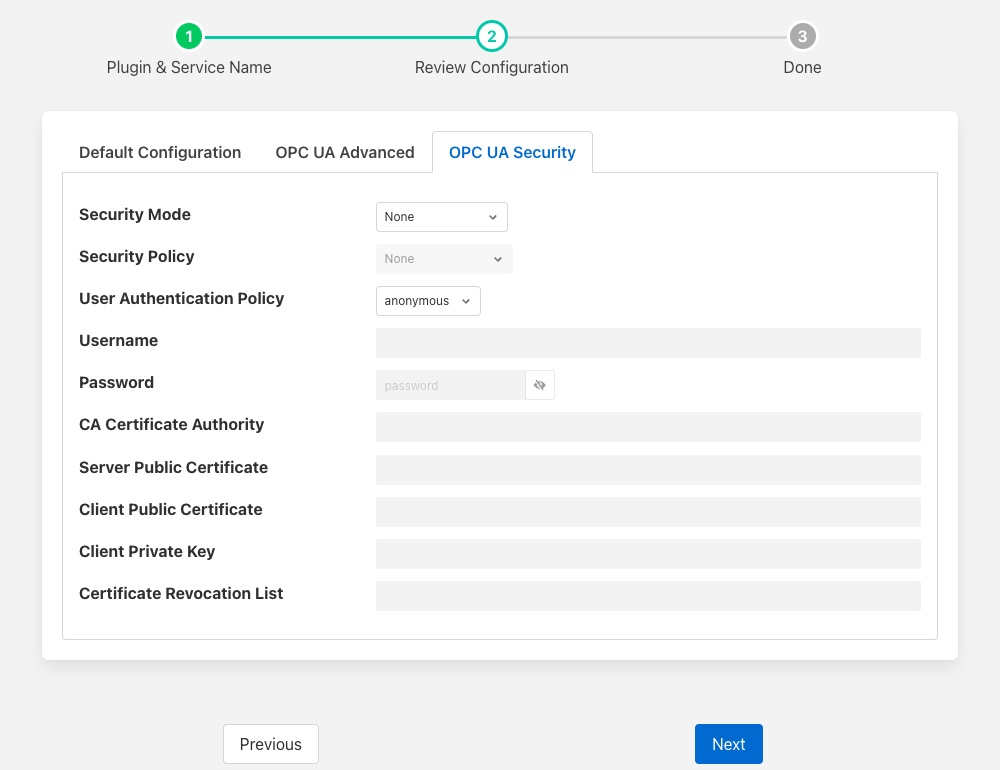
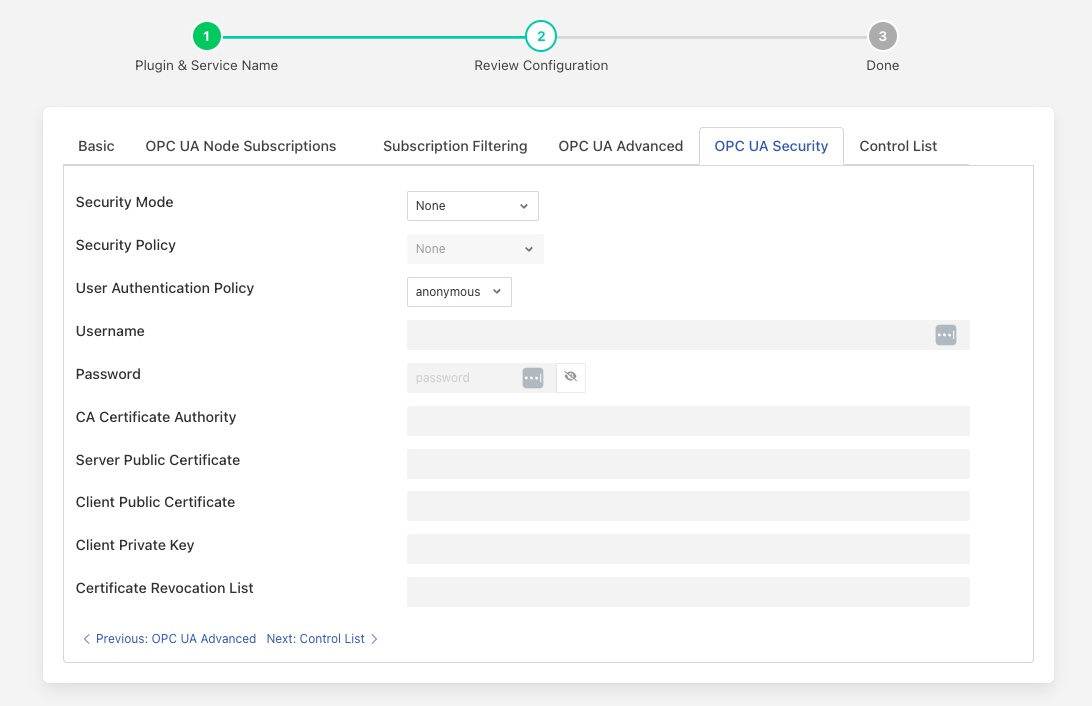
FOGL-9526 Update S2OPCUA documentation with lists for subscriptions and add control configuration

diff --git a/docs/index.rst b/docs/index.rst
@@ -1,8 +1,10 @@
 .. Images
 .. |opcua_1| image:: images/opcua_1.jpg
 .. |opcua_subscriptions| image:: images/opcua_subscriptions.jpg
+.. |opcua_filtering| image:: images/opcua_filtering.jpg
 .. |opcua_advanced| image:: images/opcua_advanced.jpg
 .. |opcua_security| image:: images/opcua_security.jpg
+.. |opcua_security| image:: images/opcua_control.jpg
 .. |opcua_2| image:: images/opcua_2.jpg
 .. |opcua_3| image:: images/opcua_3.jpg
 .. |opcua_4| image:: images/opcua_4.jpg
@@ -55,12 +57,17 @@ The *fledge-south-s2opcua* configuration parameters are divided into a set of ta
 
   - OPC UA Subscriptions
 
+  - Subscription Filtering
+
   - OPC UA Advanced
 
   - OPC UA Security
 
+  - Control List
+
 Basic Configuration
 -------------------
+
 The Basic configuration tab is shown below:
 
 +-----------+
@@ -113,7 +120,8 @@ This is important for both *Single datapoint* and *Single Asset* naming schemes:
 
 OPC UA Subscriptions
 --------------------
-The OPC UA Subscriptions tab allows you to define the Variables to be read from the OPC UA server's namespace:
+
+The OPC UA Subscriptions tab allows you to define the Variables to be read from the OPC UA server's namespace. The variables are read on an exception basis, a subscription is created with the OPC UA server and it will send the data only when it changes. This allows for very efficient communication and also the support for reading large numbers of variables from the OPC UA server.
 
 +-----------------------+
 | |opcua_subscriptions| |
@@ -122,8 +130,21 @@ The OPC UA Subscriptions tab allows you to define the Variables to be read from 
 Information from Variables is used to define Assets and Datapoints in Fledge.
 See the :ref:`Subscriptions` section for a description of OPC UA Objects and Variables and how to specify them.
 
-  - **OPC UA Node Subscriptions**: This is a JSON document with an array of OPC UA NodeIds.
+  - **OPC UA Node Subscriptions**: This is a list of OPC UA NodeIds that are used to create the subscription within the OPCUA server. Each entry in the list is an OPC UA NodeId. To add a new item to the list click on the *+ Add new item* link at the bottom of the list.
+
     The NodeIds can be identifiers of Variables, or Objects that are the parents of Variables.
+
+Subscription Filtering
+~~~~~~~~~~~~~~~~~~~~~~
+
+The Subscription Filtering tab allows you to filter the variables that are read from the OPC UA server.
+
++-------------------+
+| |opcua_filtering| |
++-------------------+
+
+This is useful if subscribing to objects or hierarchies within the OPC UA server.
+
   - **Name Filter Regular Expression**: The regular expression (regex) to be matched against the Browse Name of the node. The regex has to match the Browse Name exactly.
   - **Name Filter Scope**: Specifies scope of the node filtering. There are 3 options in the drop-down:
 
@@ -255,6 +276,17 @@ The OPC UA Security tab contains a set of configuration items that is used for s
 
   - **Certificate Revocation List**: The name of the certificate authority's Certificate Revocation List. This is a DER format certificate. If using self-signed certificates this should be left blank.
 
+Control List
+------------
+
+The Control List tab is used to define the set of OPC UA nodes that can be written to by the south service via the control mechanisms of Fledge.
+
++-----------------+
+| |opcua_control| |
++-----------------+
+
+In much the same way that a list of OPC UA NodeIds is created for the subscription, a list of OPC UA nodes that may be written is also created. To add a new item to the list click on the *+ Add item* link at the base of the list.
+
 .. _Subscriptions:
 
 Subscriptions
@@ -269,7 +301,7 @@ An important type of Object is the Folder which can hold any number of Objects a
 A Variable has a time-series data value which consists of a value, status and timestamp.
 The plugin must find Variables in the Address Space in order to subscribe to updates in data values.
 
-Subscriptions to OPC UA Nodes are stored as a JSON object which contains an array of NodeIds as described in the :ref:`OPC UA Subscriptions` tab.
+Subscriptions to OPC UA Nodes are stored as a list of NodeIds as described in the :ref:`OPC UA Subscriptions` tab.
 If the NodeId identifies a Variable, the Variable will be added to the plugin's subscription list.
 If the NodeId identifies an Object, the plugin will recurse down the hierarchy below that Object and add every Variable it finds to the subscription list.
 
@@ -287,9 +319,12 @@ Subscription Examples
 
 The examples in the section come from the `Prosys OPC UA Simulation Server <https://prosysopc.com/products/opc-ua-simulation-server/>`_.
 
-.. code-block:: console
+.. list-table::
+   :header-rows: 1
 
-    {"subscriptions":["ns=3;s=85/0:Simulation","ns=6;s=MyLevel"]}
+   * - NodeID
+   * - ns=3;s=85/0:Simulation
+   * - ns=6;s=MyLevel
 
 The plugin processes as follows:
 
@@ -300,9 +335,13 @@ The plugin processes as follows:
  - NodeId *ns=6;s=MyLevel* identifies a Variable in Namespace 6 in the *MyDevice* Object which is in the *MyObjects* Folder which in turn is in the root *Objects* Folder.
    Since *ns=6;s=MyLevel* is the NodeId of a Variable, it will be subscribed directly.
 
-.. code-block:: console
+.. list-table::
+   :header-rows: 1
 
-    {"subscriptions":["ns=3;i=1004","ns=6;s=MyLevel","ns=3;i=1003"]}
+   * - NodeID
+   * - ns=3;i=1004
+   * - ns=6;s=MyLevel
+   * - ns=3;i=1003
 
 The plugin processes as follows:
 
